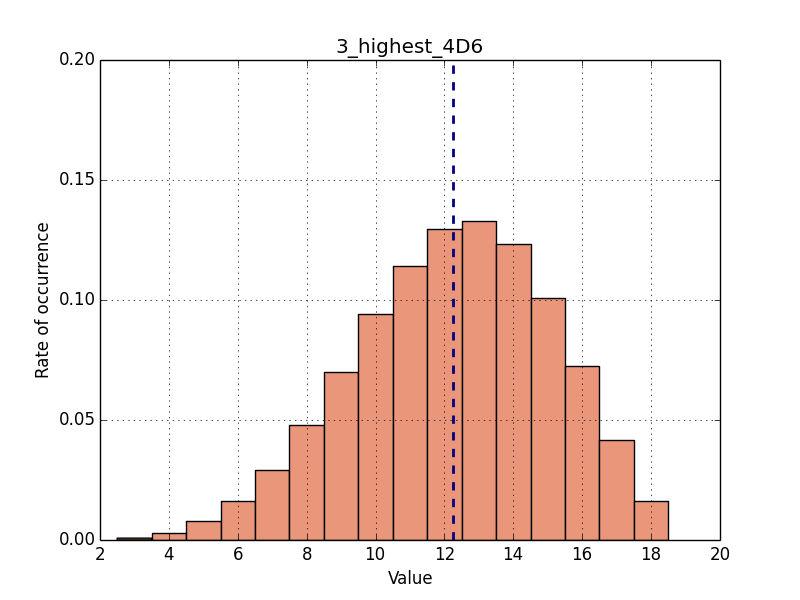
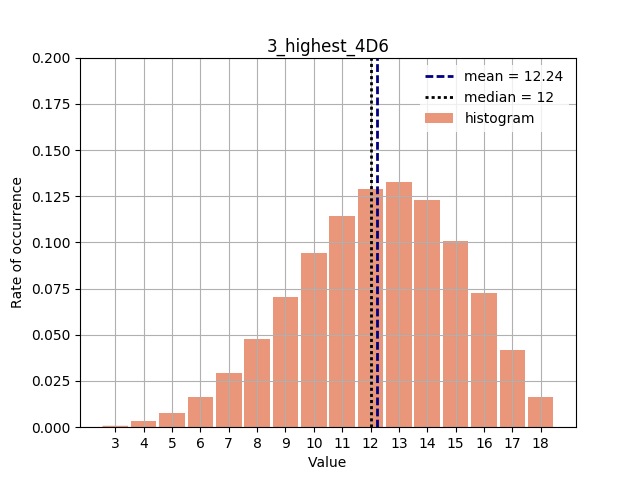
generic updates! added advantage/disadvantage look

diff --git a/dice.py b/dice.py
@@ -3,8 +3,7 @@ __author__ = 'Jwely'
 import numpy
 import matplotlib.pyplot as plt
 
-
-class D():
+class D(object):
     """
     Simple dice class that allows more natural syntax for rolling dice
 
@@ -36,25 +35,20 @@ class D():
         return numpy.random.randint(1, self.sides + 1, self.dim)
 
 
-class Result():
-    """
-    i dont even remember what these are for.
-    """
-
-    def __init__(self, dice):
-        self.dice = dice
-        self.result = self.roll()
-
-    def roll(self):
-        """ encapsulates the roll function of all constituent dice """
-        return roll(self.dice)
-
-
 def highest(num, rolls):
     """ returns the highest "num" of dice from rolls matrix """
-
     ordered = numpy.sort(rolls)
     return ordered[:, -num:]
+
+
+def lowest(num, rolls):
+    """ returns the lowest 'num' of dice from rolls matrix """
+    ordered = numpy.sort(rolls)
+    return ordered[:, :num]
+
+
+def bestof(n_best, n_pool):
+    pass
 
 
 def roll(dice):
@@ -90,10 +84,16 @@ def histogram(rolls, title=None, xmax=None, ymax=None):
         rolls = numpy.sum(rolls, axis=1)
 
     plt.hist(rolls, bins=range(min(rolls), max(rolls) + 2),
-             align="left", color="darksalmon", normed=True)
-    plt.axvline(rolls.mean(), color="navy", linestyle="dashed", linewidth=2)
+             align="left", edgecolor='k', facecolor="darksalmon",
+             normed=True, rwidth=0.9)
+    plt.axvline(numpy.mean(rolls), color="navy", linestyle="--", linewidth=2)
+    plt.axvline(numpy.median(rolls), color="black", linestyle=":", linewidth=2)
+    plt.legend(["mean = {:0.2f}".format(numpy.mean(rolls)),
+                "median = {:0.0f}".format(numpy.median(rolls)),
+                "histogram"])
     plt.ylabel("Rate of occurrence")
     plt.xlabel("Value")
+    plt.xticks([x for x in range(min(rolls), max(rolls)+1)])
     plt.grid()
 
     if xmax is not None:
@@ -112,14 +112,20 @@ def histogram(rolls, title=None, xmax=None, ymax=None):
 # now we can very quickly do monte carlo simulations on various dice rolls
 if __name__ == "__main__":
 
-    dims = int(1e6)
+    dims = 1e7
 
     # syntax examples
     rolls = roll(3 * D(6, dims))
     histogram(rolls, "3_summed_3D6", ymax=0.2)
 
     rolls = highest(3, roll(4 * D(6, dims)))
-    histogram(rolls, "3_highest_4D6", ymax=0.2)
+    histogram(rolls, '3_highest_4D6', ymax=0.2)
+
+    rolls = highest(1, roll(2 * D(20, dims)))
+    histogram(rolls, "highest_of_2_d20", ymax=0.2)
+
+    rolls = lowest(1, roll(2 * D(20, dims)))
+    histogram(rolls, "lowest_of_2_d20", ymax=0.2)
 
     rolls = highest(3, roll(5 * D(6, dims)))
     histogram(rolls, "3_highest_5D6", ymax=0.2)
